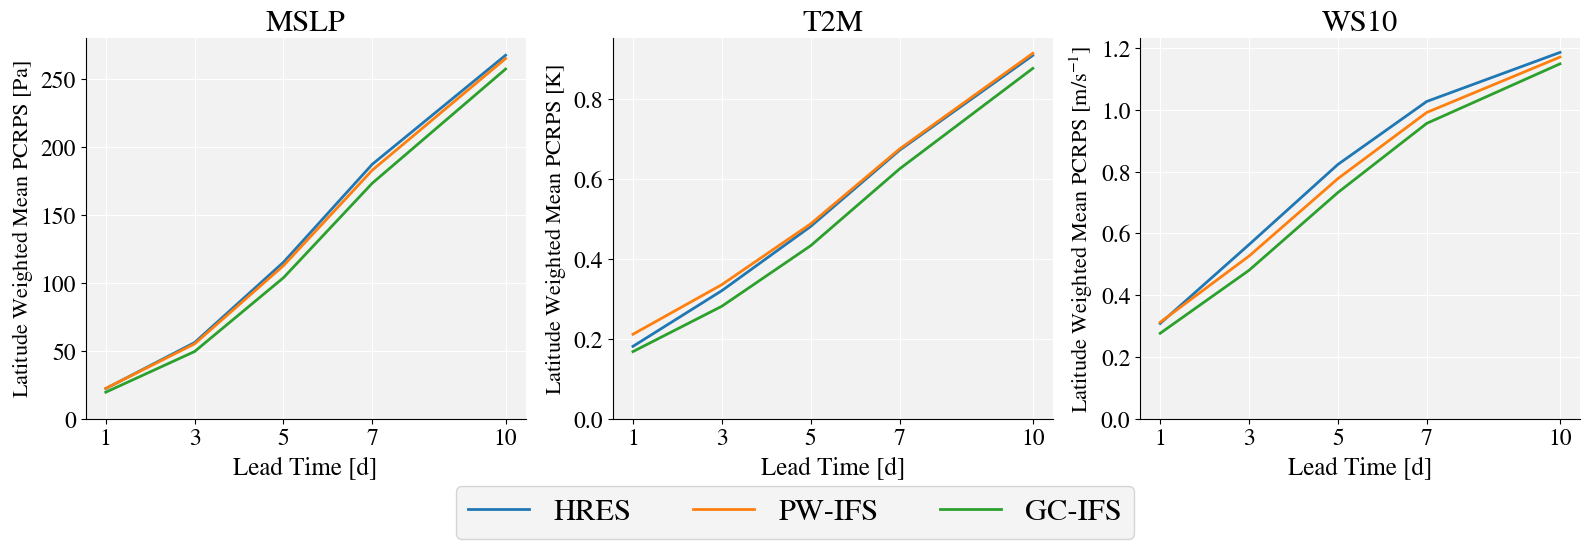
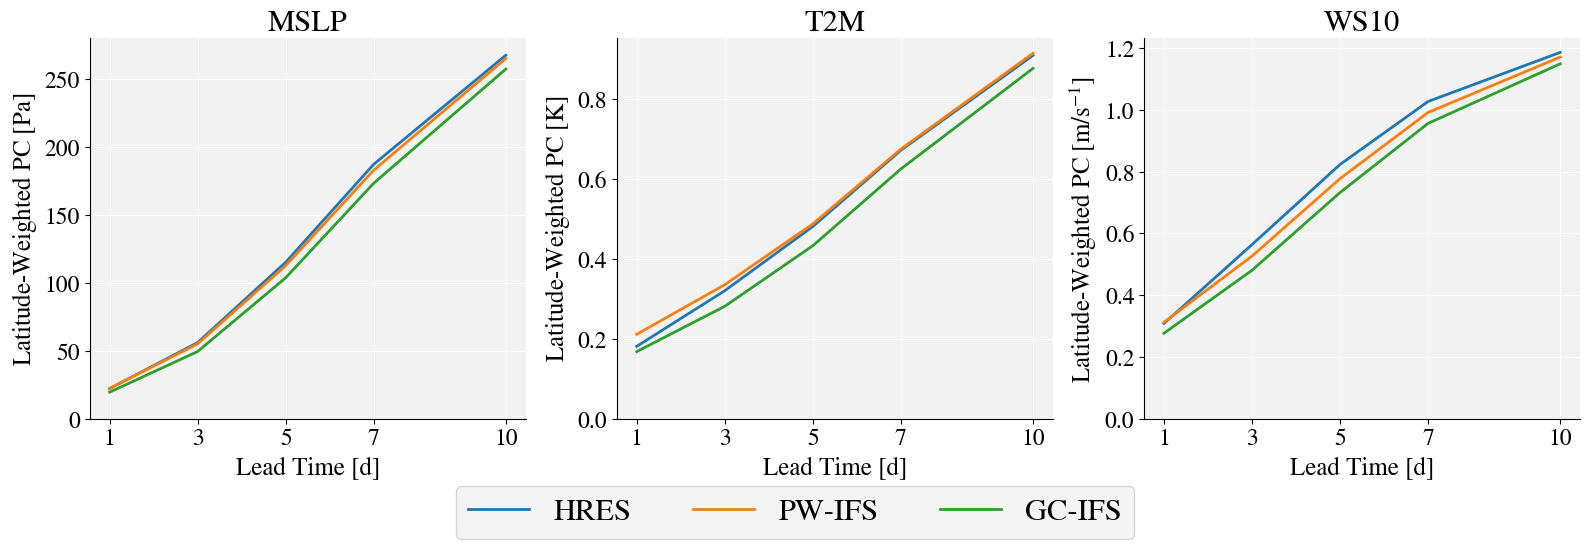
Update plots

diff --git a/wb2/create_plots.py b/wb2/create_plots.py
@@ -50,12 +50,14 @@ pangu_vs_era5_results = xr.open_dataset('results/pangu_vs_era5_pc.nc', decode_ti
 ifs_hres_vs_era5_results = xr.open_dataset('results/ifs_hres_vs_era5_pc.nc', decode_timedelta=True).sel(prediction_timedelta=lead_times, metric=['pc', 'pcs']).load()
 graphcast_operational_vs_era5_results = xr.open_dataset('results/graphcast_operational_vs_era5_pc.nc', decode_timedelta=True).sel(prediction_timedelta=lead_times, metric=['pc', 'pcs']).load()
 pangu_operational_vs_era5_results = xr.open_dataset('results/pangu_operational_vs_era5_pc.nc', decode_timedelta=True).sel(prediction_timedelta=lead_times, metric=['pc', 'pcs']).load()
+era5_climatology_vs_era5_results = xr.open_dataset('results/era5_climatology_vs_era5_pc.nc', decode_timedelta=True).sel(prediction_timedelta=lead_times, metric=['pc', 'pcs']).load()
 
 graphcast_vs_ifs_analysis_results = xr.open_dataset('results/graphcast_vs_ifs_analysis_pc.nc', decode_timedelta=True).sel(prediction_timedelta=lead_times, metric=['pc', 'pcs']).load()
 pangu_vs_ifs_analysis_results = xr.open_dataset('results/pangu_vs_ifs_analysis_pc.nc', decode_timedelta=True).sel(prediction_timedelta=lead_times, metric=['pc', 'pcs']).load()
 ifs_hres_vs_ifs_analysis_results = xr.open_dataset('results/ifs_hres_vs_ifs_analysis_pc.nc', decode_timedelta=True).sel(prediction_timedelta=lead_times, metric=['pc', 'pcs']).load()
 graphcast_operational_vs_ifs_analysis_results = xr.open_dataset('results/graphcast_operational_vs_ifs_analysis_pc.nc', decode_timedelta=True).sel(prediction_timedelta=lead_times, metric=['pc', 'pcs']).load()
 pangu_operational_vs_ifs_analysis_results = xr.open_dataset('results/pangu_operational_vs_ifs_analysis_pc.nc', decode_timedelta=True).sel(prediction_timedelta=lead_times, metric=['pc', 'pcs']).load()
+era5_climatology_vs_ifs_analysis_results = xr.open_dataset('results/era5_climatology_vs_ifs_analysis_pc.nc', decode_timedelta=True).sel(prediction_timedelta=lead_times, metric=['pc', 'pcs']).load()
 
 # Load in IFS ENS CRPS
 ifs_ens_vs_era5 = xr.open_dataset('results/ifs_ens_vs_era5_crps.nc', decode_timedelta=True).sel(lead_time=lead_times).load()
@@ -78,25 +80,29 @@ pangu_vs_era5_results_spatial_avg = pangu_vs_era5_results.map(_spatial_average, 
 ifs_hres_vs_era5_results_spatial_avg = ifs_hres_vs_era5_results.map(_spatial_average, region=None, skipna=False)
 graphcast_operational_vs_era5_results_spatial_avg = graphcast_operational_vs_era5_results.map(_spatial_average, region=None, skipna=False)
 pangu_operational_vs_era5_results_spatial_avg = pangu_operational_vs_era5_results.map(_spatial_average, region=None, skipna=False)
+era5_climatology_vs_era5_results_spatial_avg = era5_climatology_vs_era5_results.map(_spatial_average, region=None, skipna=False)
 
 graphcast_vs_ifs_analysis_results_spatial_avg = graphcast_vs_ifs_analysis_results.map(_spatial_average, region=None, skipna=False)
 pangu_vs_ifs_analysis_results_spatial_avg = pangu_vs_ifs_analysis_results.map(_spatial_average, region=None, skipna=False)
 ifs_hres_vs_ifs_analysis_results_spatial_avg = ifs_hres_vs_ifs_analysis_results.map(_spatial_average, region=None, skipna=False)
 graphcast_operational_vs_ifs_analysis_results_spatial_avg = graphcast_operational_vs_ifs_analysis_results.map(_spatial_average, region=None, skipna=False)
 pangu_operational_vs_ifs_analysis_results_spatial_avg = pangu_operational_vs_ifs_analysis_results.map(_spatial_average, region=None, skipna=False)
+era5_climatology_vs_ifs_analysis_results_spatial_avg = era5_climatology_vs_ifs_analysis_results.map(_spatial_average, region=None, skipna=False)
 
-# Compute mean
-graphcast_vs_era5_results_mean = graphcast_vs_era5_results.mean(dim=['latitude', 'longitude'])
-pangu_vs_era5_results_mean = pangu_vs_era5_results.mean(dim=['latitude', 'longitude'])
-ifs_hres_vs_era5_results_mean = ifs_hres_vs_era5_results.mean(dim=['latitude', 'longitude'])
-graphcast_operational_vs_era5_results_mean = graphcast_operational_vs_era5_results.mean(dim=['latitude', 'longitude'])
-pangu_operational_vs_era5_results_mean = pangu_operational_vs_era5_results.mean(dim=['latitude', 'longitude'])
+# # Compute mean
+# graphcast_vs_era5_results_mean = graphcast_vs_era5_results.mean(dim=['latitude', 'longitude'])
+# pangu_vs_era5_results_mean = pangu_vs_era5_results.mean(dim=['latitude', 'longitude'])
+# ifs_hres_vs_era5_results_mean = ifs_hres_vs_era5_results.mean(dim=['latitude', 'longitude'])
+# graphcast_operational_vs_era5_results_mean = graphcast_operational_vs_era5_results.mean(dim=['latitude', 'longitude'])
+# pangu_operational_vs_era5_results_mean = pangu_operational_vs_era5_results.mean(dim=['latitude', 'longitude'])
+# era5_climatology_vs_era5_results_mean = era5_climatology_vs_era5_results.mean(dim=['latitude', 'longitude'])
 
-graphcast_vs_ifs_analysis_results_mean = graphcast_vs_ifs_analysis_results.mean(dim=['latitude', 'longitude'])
-pangu_vs_ifs_analysis_results_mean = pangu_vs_ifs_analysis_results.mean(dim=['latitude', 'longitude'])
-ifs_hres_vs_ifs_analysis_results_mean = ifs_hres_vs_ifs_analysis_results.mean(dim=['latitude', 'longitude'])
-graphcast_operational_vs_ifs_analysis_results_mean = graphcast_operational_vs_ifs_analysis_results.mean(dim=['latitude', 'longitude'])
-pangu_operational_vs_ifs_analysis_results_mean = pangu_operational_vs_ifs_analysis_results.mean(dim=['latitude', 'longitude'])
+# graphcast_vs_ifs_analysis_results_mean = graphcast_vs_ifs_analysis_results.mean(dim=['latitude', 'longitude'])
+# pangu_vs_ifs_analysis_results_mean = pangu_vs_ifs_analysis_results.mean(dim=['latitude', 'longitude'])
+# ifs_hres_vs_ifs_analysis_results_mean = ifs_hres_vs_ifs_analysis_results.mean(dim=['latitude', 'longitude'])
+# graphcast_operational_vs_ifs_analysis_results_mean = graphcast_operational_vs_ifs_analysis_results.mean(dim=['latitude', 'longitude'])
+# pangu_operational_vs_ifs_analysis_results_mean = pangu_operational_vs_ifs_analysis_results.mean(dim=['latitude', 'longitude'])
+# era5_climatology_vs_ifs_analysis_results_mean = era5_climatology_vs_ifs_analysis_results.mean(dim=['latitude', 'longitude'])
 
 # -------- Line plot for PC of WeatherBench 2 operational models with IFS analysis as ground truth, latitude weighted mean ---------- #
 # Create the figure and subplots
@@ -118,7 +124,7 @@ for ax, var, title, unit in zip(axes, variables[:-1], titles[:-1], units[:-1]):
     ax.set_title(title, fontsize=22)
     ax.set_xticks(lead_time_days)
     ax.set_ylim(0)
-    ax.set_ylabel('Latitude Weighted Mean PCRPS ' + unit, fontsize=16)
+    ax.set_ylabel('Latitude-Weighted PC ' + unit, fontsize=18)
     ax.tick_params(axis='both', which='major', labelsize=17)
 
 plt.tight_layout()
@@ -140,7 +146,9 @@ fig, axes = plt.subplots(2, len(variables[:-1]), figsize=(16, 10))
 for ax, var, title, unit in zip(axes[0, :], variables[:-1], titles[:-1], units[:-1]):
     ax.plot(lead_time_days,
             era5_pc0_spatial_avg.sel(prediction_timedelta=lead_times)[var],
-            label='ERA5 $\\text{PCRPS}^{(0)}$', color='tab:red')
+            label='ERA5 $\\text{PC}^{(0)}$', color='tab:red')
+    ax.plot(lead_time_days,
+            era5_climatology_vs_era5_results_spatial_avg.sel(metric='pc')[var], color='tab:brown')
     ax.plot(lead_time_days,
             ifs_hres_vs_era5_results_spatial_avg.sel(metric='pc')[var], color='tab:blue')
     ax.plot(lead_time_days,
@@ -152,14 +160,17 @@ for ax, var, title, unit in zip(axes[0, :], variables[:-1], titles[:-1], units[:
     ax.set_title(title, fontsize=22)
     ax.set_xticks(lead_time_days)
     ax.set_ylim(0)
-    ax.set_ylabel('Latitude Weighted Mean PCRPS ' + unit, fontsize=16)
+    ax.set_ylabel('Latitude-Weighted PC ' + unit, fontsize=18)
     ax.tick_params(axis='both', which='major', labelsize=17)
 
 # ----------------------- Ground Truth IFS Analysis -----------------------
 for ax, var, title, unit in zip(axes[1, :], variables[:-1], titles[:-1], units[:-1]):
     ax.plot(lead_time_days,
             ifs_analysis_pc0_spatial_avg.sel(prediction_timedelta=lead_times)[var],
-            label='IFS Analysis $\\text{PCRPS}^{(0)}$', color='tab:purple')
+            label='IFS Analysis $\\text{PC}^{(0)}$', color='tab:purple')
+    ax.plot(lead_time_days,
+            era5_climatology_vs_ifs_analysis_results_spatial_avg.sel(metric='pc')[var],
+            label='ERA5 Climatology', color='tab:brown')
     ax.plot(lead_time_days,
             ifs_hres_vs_ifs_analysis_results_spatial_avg.sel(metric='pc')[var],
             label='HRES', color='tab:blue')
@@ -174,7 +185,7 @@ for ax, var, title, unit in zip(axes[1, :], variables[:-1], titles[:-1], units[:
     ax.set_title(title, fontsize=22)
     ax.set_xticks(lead_time_days)
     ax.set_ylim(0)
-    ax.set_ylabel('Latitude Weighted Mean PCRPS ' + unit, fontsize=16)
+    ax.set_ylabel('Latitude-Weighted PC ' + unit, fontsize=18)
     ax.tick_params(axis='both', which='major', labelsize=17)
 
 plt.tight_layout()
@@ -213,8 +224,8 @@ for h, l in zip(handles_lower, labels_lower):
 combined_handles = list(combined_legend.values())
 combined_labels = list(combined_legend.keys())
 
-fig.legend(combined_handles, combined_labels, loc='lower center', ncol=5, 
-           bbox_to_anchor=(0.5, -0.075), fontsize=22)
+fig.legend(combined_handles, combined_labels, loc='lower center', ncol=6, 
+           bbox_to_anchor=(0.5, -0.075), fontsize=20, columnspacing=1.5)
 
 plt.savefig('plots/lineplot_lat_mean_pc.png', facecolor='white', edgecolor='none', bbox_inches='tight')
 
@@ -333,32 +344,32 @@ plots = [
         graphcast_vs_ifs_analysis_results_spatial_avg,
         graphcast_operational_vs_ifs_analysis_results_spatial_avg,
         ax_gc_ifs,
-        'Latitude-Weighted Mean $\\text{PCRPS}_{\\text{skill}}$ GC-ERA5',
-        'Latitude-Weighted Mean $\\text{PCRPS}_{\\text{skill}}$ GC-IFS',
+        'Latitude-Weighted $\\text{PCS}^{(\\text{GC-ERA5})}$',
+        'Latitude-Weighted $\\text{PCS}^{(\\text{GC-IFS})}$',
         'Ground Truth: IFS Analysis'
     ),
     (
         pangu_vs_ifs_analysis_results_spatial_avg,
         pangu_operational_vs_ifs_analysis_results_spatial_avg,
         ax_pn_ifs,
-        'Latitude-Weighted Mean $\\text{PCRPS}_{\\text{skill}}$ PW-ERA5',
-        'Latitude-Weighted Mean $\\text{PCRPS}_{\\text{skill}}$ PW-IFS',
+        'Latitude-Weighted $\\text{PCS}^{(\\text{PW-ERA5})}$',
+        'Latitude-Weighted $\\text{PCS}^{(\\text{PW-IFS})}$',
         'Ground Truth: IFS Analysis'
     ),
     (
         graphcast_vs_era5_results_spatial_avg,
         graphcast_operational_vs_era5_results_spatial_avg,
         ax_gc_era5,
-        'Latitude-Weighted Mean $\\text{PCRPS}_{\\text{skill}}$ GC-ERA5',
-        'Latitude-Weighted Mean $\\text{PCRPS}_{\\text{skill}}$ GC-IFS',
+        'Latitude-Weighted $\\text{PCS}^{(\\text{GC-ERA5})}$',
+        'Latitude-Weighted $\\text{PCS}^{(\\text{GC-IFS})}$',
         'Ground Truth: ERA5'
     ),
     (
         pangu_vs_era5_results_spatial_avg,
         pangu_operational_vs_era5_results_spatial_avg,
         ax_pn_era5,
-        'Latitude-Weighted Mean $\\text{PCRPS}_{\\text{skill}}$ PW-ERA5',
-        'Latitude-Weighted Mean $\\text{PCRPS}_{\\text{skill}}$ PW-IFS',
+        'Latitude-Weighted $\\text{PCS}^{(\\text{PW-ERA5})}$',
+        'Latitude-Weighted $\\text{PCS}^{(\\text{PW-IFS})}$',
         'Ground Truth: ERA5'
     ),
 ]
@@ -373,8 +384,8 @@ for nonop_ds, op_ds, ax, xl, yl, ttl in plots:
         y = op_ds.sel(metric='pcs')[var].values
 
         # scatter + connecting line
-        ax.scatter(x, y, color=c, s=30)
-        ax.plot(x, y, color=c, label=title)
+        ax.scatter(x, y, color=c, s=60)
+        ax.plot(x, y, color=c, linewidth=3, label=title)
 
     # Fix both axes to [0, 1]
     ax.set_xlim(0, 1)
@@ -454,7 +465,7 @@ for ax, var, title, xlim_val, ylim_val, unit in zip(axes, variables[:-1], titles
     ax.plot([xlim_val[0], xlim_val[1]], [ylim_val[0], ylim_val[1]], color='k', linestyle='--', linewidth=1.5)
     
     ax.set_ylabel('ENS $\overline{\\text{CRPS}}$ ' + unit, fontsize=20)
-    ax.set_xlabel('HRES PCRPS ' + unit, fontsize=20)
+    ax.set_xlabel('HRES PC ' + unit, fontsize=20)
     ax.set_title(title, fontsize=28)
     ax.set_xlim(xlim_val)
     ax.set_ylim(ylim_val)
@@ -532,10 +543,10 @@ fig.legend(
     [handle.get_label() for handle in legend_handles],
     loc='lower center', 
     ncol=len(unique_leads), 
-    bbox_to_anchor=(0.5175, 0.0), 
+    bbox_to_anchor=(0.5175, -0.01), 
     fontsize=18, 
     title='Lead Time [d]', 
-    title_fontsize=20, 
+    title_fontsize=22, 
     prop={'size': 20}, 
     handletextpad=0.5
 )
@@ -592,12 +603,12 @@ for ax, var, title in zip(axes[0, :], variables[:-1], titles[:-1]):
     ax.boxplot(data_pangu_hres, positions=positions_pangu_hres, boxprops=dict(facecolor='tab:orange'), **boxplot_kwargs)
     
     ax.set_xlabel('Lead Time [d]', fontsize=18)
-    ax.set_title(title, fontsize=18)
+    ax.set_title(title, fontsize=22)
     ax.set_xticks(x_ticks)
     ax.tick_params(axis='both', which='major', labelsize=17)
     ax.set_xticklabels([str(x) for x in x_ticks])
     if title=='MSLP':
-        ax.set_ylabel('p-values', fontsize=18)  
+        ax.set_ylabel('p-Value', fontsize=18)  
 
 # ----------------------- Ground Truth IFS Analysis -----------------------
 for ax, var, title in zip(axes[1, :], variables[:-1], titles[:-1]):
@@ -644,7 +655,7 @@ for ax, var, title in zip(axes[1, :], variables[:-1], titles[:-1]):
     ax.tick_params(axis="both", which="major", labelsize=17)
     ax.set_xticklabels([str(x) for x in x_ticks])
     if title=='MSLP':
-        ax.set_ylabel('p-values', fontsize=18)    
+        ax.set_ylabel('p-Value', fontsize=18)    
 
 plt.tight_layout()
 plt.subplots_adjust(hspace=0.4)
@@ -670,11 +681,11 @@ fig.text(row2_center_x, row2_top + 0.04, "Ground Truth: IFS Analysis",
 
 # Shared legend
 legend_handles = [
-    Patch(facecolor='tab:green', label='$\\text{H}_0: \\text{PCRPS}^{(\\text{GC-ERA5})} \geq \\text{PCRPS}^{(\\text{PW-ERA5})}$'),
-    Patch(facecolor='tab:blue', label='$\\text{H}_0: \\text{PCRPS}^{(\\text{GC-ERA5})} \geq \\text{PCRPS}^{(\\text{HRES})}$'),
-    Patch(facecolor='tab:orange', label='$\\text{H}_0: \\text{PCRPS}^{(\\text{PW-ERA5})} \geq \\text{PCRPS}^{(\\text{HRES})}$')
+    Patch(facecolor='tab:green', label='$\\text{H}_0: \\text{PC}^{(\\text{GC-ERA5})} \geq \\text{PC}^{(\\text{PW-ERA5})}$'),
+    Patch(facecolor='tab:blue', label='$\\text{H}_0: \\text{PC}^{(\\text{GC-ERA5})} \geq \\text{PC}^{(\\text{HRES})}$'),
+    Patch(facecolor='tab:orange', label='$\\text{H}_0: \\text{PC}^{(\\text{PW-ERA5})} \geq \\text{PC}^{(\\text{HRES})}$')
 ]
 
-fig.legend(handles=legend_handles, loc='lower center', ncol=3, bbox_to_anchor=(0.5, -0.075), fontsize=19)
+fig.legend(handles=legend_handles, loc='lower center', ncol=3, bbox_to_anchor=(0.5, -0.075), fontsize=22)
 
 plt.savefig('plots/boxplot_pvalues.png', facecolor='white', edgecolor='none', bbox_inches='tight')
